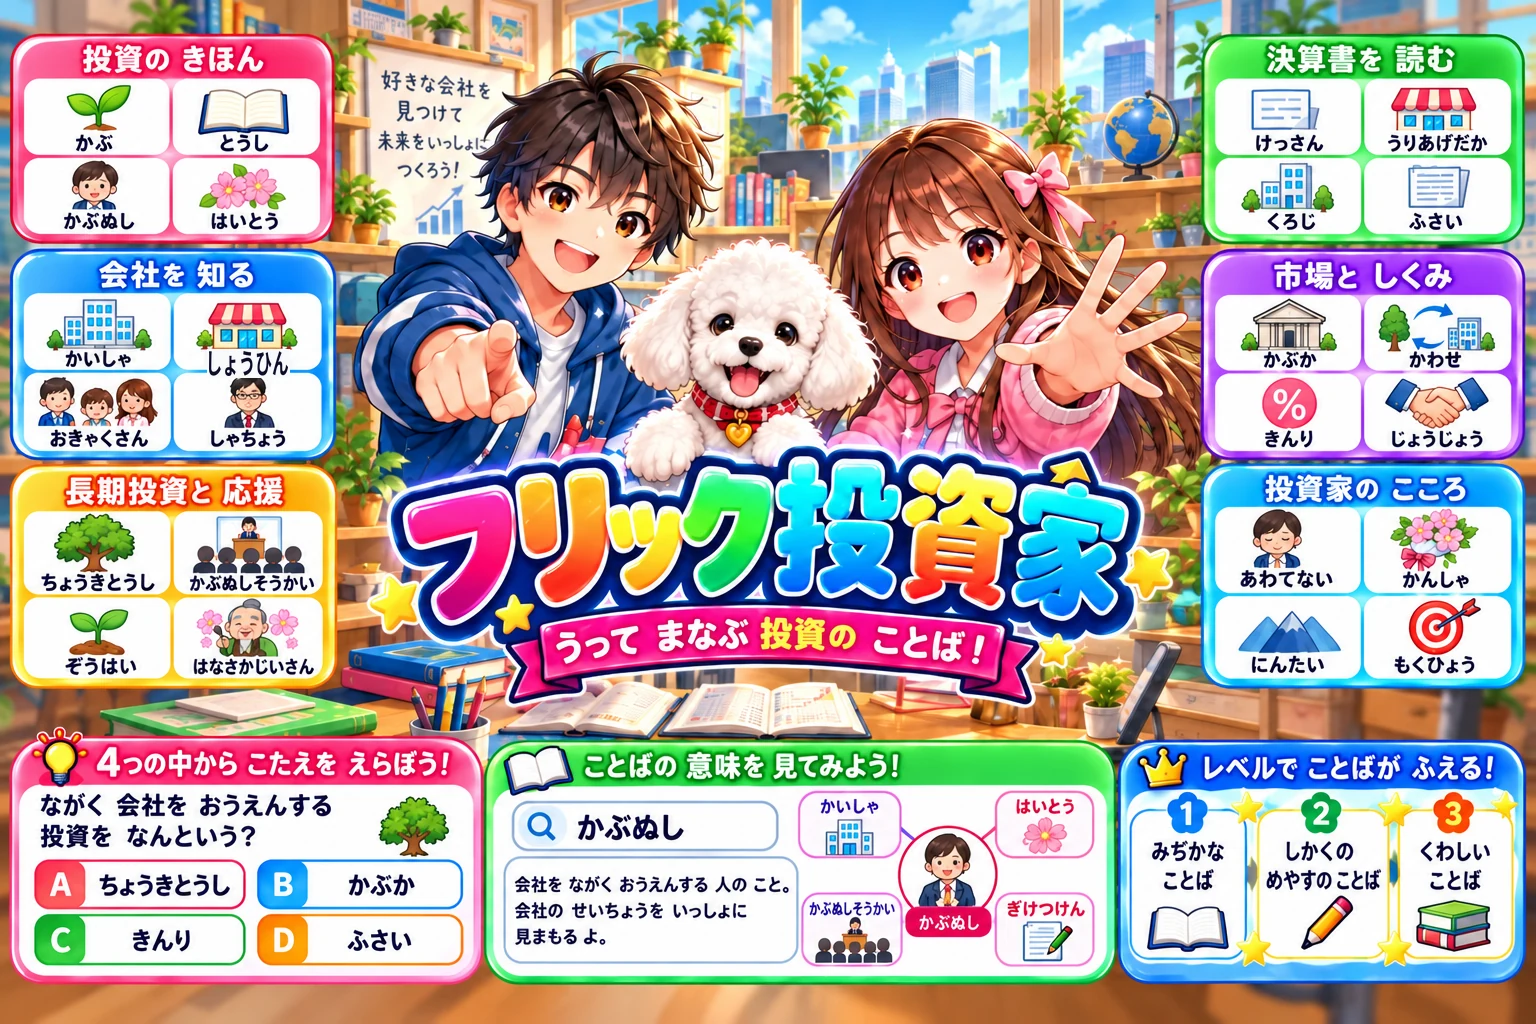
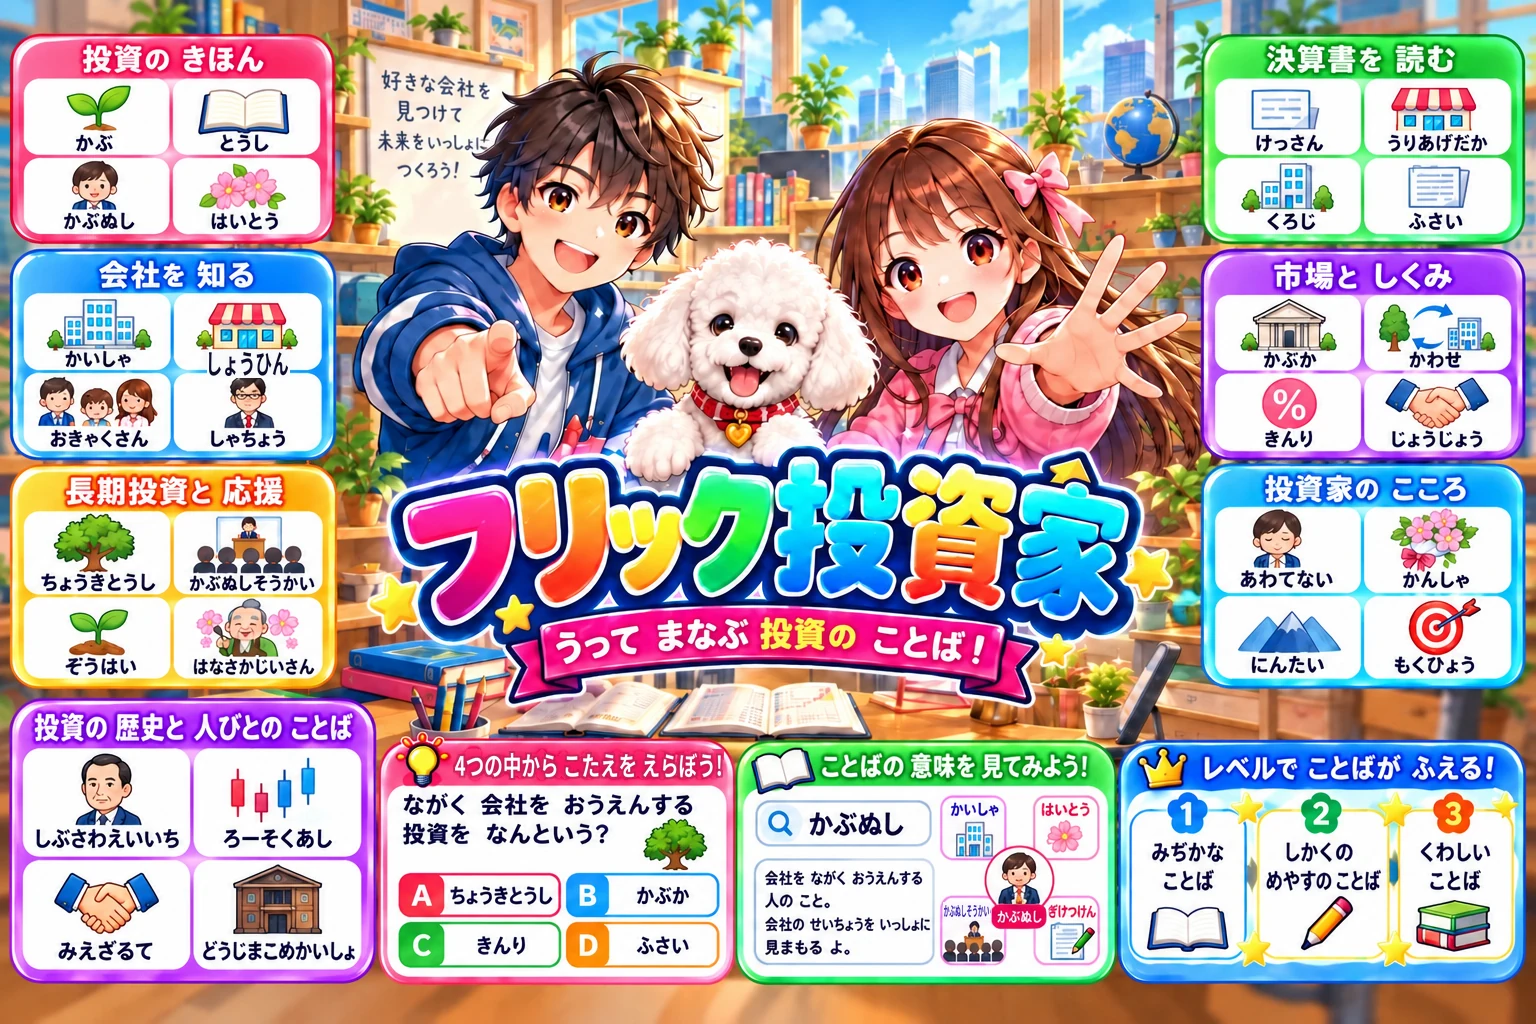
フリック投資家の トップの 絵を 7つの 旅の 札に 差しかえる(4回目の 絵。字の まちがい 3か所を 絵の 中で 直した)
Claude-Session: https://claude.ai/code/session_015JDraoHnMP7RXEF2jiJkTc

diff --git a/toshika/index.html b/toshika/index.html
@@ -423,11 +423,11 @@ ruby.nm rt{font-size:10px;font-weight:500;color:var(--muted);letter-spacing:.02e
          読みあげソフトには かくして、下の <h1> が 名前を言う -->
     <div class="logo">
       <img class="logo-mark" src="logo-mark2.webp?v=1" alt="" width="144" height="144" aria-hidden="true">
-      <img class="logo-word" src="logo-word.webp?v=1" alt="" width="900" height="211" aria-hidden="true">
+      <img class="logo-word" src="logo-word.webp?v=2" alt="" width="900" height="211" aria-hidden="true">
       <button class="prof-btn" id="prof-btn" aria-label="マイページ"><span class="nm"></span><span class="tile sm sk-card" id="prof-tile">?</span></button>
     </div>
     <h1 class="sr-only">フリック投資家</h1>
-    <img class="hero" src="hero.webp?v=1" alt="フリック投資家。本と 植物の ならぶ 明るい 部屋で 男の子と 女の子と 白い 犬が 笑っている 絵。まわりに 6つの 旅の ことばの 札と 4択クイズ・図鑑・レベルの 見本が ならんでいる" width="1536" height="1024">
+    <img class="hero" src="hero.webp?v=2" alt="フリック投資家。本と 植物の ならぶ 明るい 部屋で 男の子と 女の子と 白い 犬が 笑っている 絵。まわりに 7つの 旅の ことばの 札と 4択クイズ・図鑑・レベルの 見本が ならんでいる" width="1536" height="1024">
     <p class="lead" id="lead">世界と日本の名所・地名・首都を、ひらがなでどれだけ速く打てるか。10問のトータルタイムで勝負しながら、旅に出よう。</p>
     <div class="modes" id="modes"></div>
     <div id="kabu-panel"></div><!-- 株式フリック旅行だけ: 集めた会社・称号(kabu/kabu.js) -->

diff --git a/tools/toshika/fix_text.py b/tools/toshika/fix_text.py
@@ -1,8 +1,13 @@
 #!/usr/bin/env python3
 """フリック投資家: けいくんの ChatGPT の 絵(2026-10-02)の 字の まちがいを 絵の 中で 直す(税理士・アドラーの fix_text.py と 同じ やりかた)
     python3 tools/toshika/fix_text.py トップの絵.png 四角い絵.png 直したトップ.png 直した四角.png
-  ① トップの 絵(1536×1024)の「会社を 知る」の 札「しょろひん」→「しょうひん」(Noto Sans CJK JP Bold で 書きなおす)
-  ② 四角い 絵(1254×1254)の 図鑑の「ぎけつけん」の け の 上に ついた 小さな しるし(げ に 見える)を 地の 色で 消す
+  トップの 絵(4回目。7つの 旅の 札が そろった もの。1536×1024):
+  ① 「会社を 知る」の 札「しょろひん」→「しょうひん」
+  ② 4択クイズの 見出し「4つの中から こえらぼう!」(字が ぬけて くずれていた)→「4つの中から こたえを えらぼう!」(白い 字を 書きなおす)
+  ③ 図鑑の 小さな 札「かぶぬしし?」(切れていた)→「かぶぬしそうかい」(横を ちぢめて 入れる)
+  四角い 絵(1254×1254):
+  ④ 図鑑の「ぎけつけん」の け の 上に ついた 小さな しるし(げ に 見える)を 地の 色で 消す
+  いずれも Noto Sans CJK JP Bold で 書きなおす
 ⚠ 位置は この 絵の ための 数字。絵を 差しかえたら 使えない(まず 字を 切り出して 読む)
 ⚠ 書体は apt-get install fonts-noto-cjk"""
 import sys
@@ -11,27 +16,64 @@ from PIL import Image, ImageDraw, ImageFont
 hero, sq, out_h, out_s = sys.argv[1:5]
 FONT = "/usr/share/fonts/opentype/noto/NotoSansCJK-Bold.ttc"; S = 8
 
-# ① しょろひん → しょうひん
+
+def glyphs(txt, h, maxw=None):
+    """txt を 高さ h の アルファ(0〜1)に する。maxw を こえたら 横だけ ちぢめる"""
+    F = ImageFont.truetype(FONT, 40 * S, index=0)            # index 0 = JP
+    tmp = Image.new("L", (40 * S * (len(txt) + 2), 40 * S * 2), 0); ImageDraw.Draw(tmp).text((20 * S, 20 * S), txt, font=F, fill=255)
+    g = tmp.crop(tmp.getbbox()); w = round(g.width * h / g.height)
+    if maxw and w > maxw: w = maxw
+    return np.array(g.resize((w, h), Image.LANCZOS)).astype(float)[..., None] / 255
+
+
 a = np.array(Image.open(hero).convert("RGB")).astype(float); assert a.shape[:2] == (1024, 1536)
-X0, Y0, X1, Y1 = 185, 350, 315, 376                       # 札の 字の あたり(上の お店の 絵に かからない ように)
-r = a[Y0:Y1, X0:X1]; m = r.sum(axis=2) < 300               # こい 紺の 字
+
+# ① しょろひん → しょうひん(こい 紺の 字・白い 札)
+X0, Y0, X1, Y1 = 185, 350, 315, 376
+r = a[Y0:Y1, X0:X1]; m = r.sum(axis=2) < 300
 ys, xs = np.nonzero(m); x0, y0, x1, y1 = X0 + xs.min(), Y0 + ys.min(), X0 + xs.max(), Y0 + ys.max()
 col = np.median(r[m], axis=0)
-bg = np.median(np.concatenate([a[y1 + 3, x0:x1], a[y0:y1, x0 - 4], a[y0:y1, x1 + 4]]), axis=0)  # 下と 左右の 白から
-a[y0 - 2:y1 + 3, x0 - 2:x1 + 3] = bg                       # もとの 字を 地の 色で 消す
-h = y1 - y0 + 1; F = ImageFont.truetype(FONT, 40 * S, index=0)   # index 0 = JP
-tmp = Image.new("L", (40 * S * 8, 40 * S * 2), 0); ImageDraw.Draw(tmp).text((20 * S, 20 * S), "しょうひん", font=F, fill=255)
-g = tmp.crop(tmp.getbbox()); w = min(round(g.width * h / g.height), x1 - x0 + 1)
-g = g.resize((w, h), Image.LANCZOS); gx = (x0 + x1) // 2 - w // 2
-al = np.array(g).astype(float)[..., None] / 255
+bg = np.median(np.concatenate([a[y1 + 3, x0:x1], a[y0:y1, x0 - 4], a[y0:y1, x1 + 4]]), axis=0)
+a[y0 - 2:y1 + 3, x0 - 2:x1 + 3] = bg
+al = glyphs("しょうひん", y1 - y0 + 1, x1 - x0 + 1); h, w = al.shape[:2]; gx = (x0 + x1) // 2 - w // 2
 a[y0:y0 + h, gx:gx + w] = a[y0:y0 + h, gx:gx + w] * (1 - al) + col * al
+
+# ② クイズの 見出し(ピンクの 帯に 白い 字)。字の ところを 行ごとの ピンクで うめてから 書きなおす
+X0, Y0, X1, Y1 = 452, 749, 724, 781
+reg = a[Y0:Y1, X0:X1]
+txt = reg.min(axis=2) > 170                                          # もとの 白い 字
+grow = txt.copy()                                                    # 字の まわりの かげも ふくめて 3px 太らせる
+for _ in range(3):
+    g2 = grow.copy(); g2[1:] |= grow[:-1]; g2[:-1] |= grow[1:]; g2[:, 1:] |= grow[:, :-1]; g2[:, :-1] |= grow[:, 1:]; grow = g2
+for i in range(reg.shape[0]):                                        # 字の ところだけ、その 行の まわりの ピンクで うめる(帯の グラデーションは のこす)
+    row = reg[i]; keep = row[~grow[i]]
+    if len(keep): row[grow[i]] = np.median(keep, axis=0)
+from PIL import ImageFilter                                           # うめた ところだけ ぼかして、もとの 字の あとを 目立たなく する
+soft = np.array(Image.fromarray(reg.clip(0, 255).astype(np.uint8)).filter(ImageFilter.GaussianBlur(4))).astype(float)
+reg[grow] = soft[grow]
+a[Y0:Y1, X0:X1] = reg
+shadow = np.median(reg[~grow], axis=0) * 0.7                         # 字の まわりの こい ピンクの かげ
+al = glyphs("4つの中から こたえを えらぼう!", 25, X1 - X0 - 6); h, w = al.shape[:2]
+gx, gy = X0 + 3, Y0 + 4
+sh = np.zeros((h + 4, w + 4, 1))
+for dx in range(5):
+    for dy in range(5): sh[dy:dy + h, dx:dx + w] = np.maximum(sh[dy:dy + h, dx:dx + w], al)
+reg = a[gy - 2:gy + h + 2, gx - 2:gx + w + 2]; a[gy - 2:gy + h + 2, gx - 2:gx + w + 2] = reg * (1 - sh * .6) + shadow * sh * .6
+a[gy:gy + h, gx:gx + w] = a[gy:gy + h, gx:gx + w] * (1 - al) + 255 * al
+
+# ③ 図鑑の「かぶぬしし?」→「かぶぬしそうかい」(白い 札に 紺むらさきの 字)
+X0, Y0, X1, Y1 = 943, 902, 990, 920
+r = a[Y0:Y1, X0:X1]; m = (r[..., 2] - r[..., 0] > 60) & (r.sum(axis=2) < 450)
+col = np.median(r[m], axis=0)
+a[Y0:Y1, X0:X1] = np.median(a[Y0:Y1, X0:X1][~m], axis=0)
+al = glyphs("かぶぬしそうかい", 12, X1 - X0 - 2); h, w = al.shape[:2]; gx = (X0 + X1) // 2 - w // 2; gy = Y0 + 3
+a[gy:gy + h, gx:gx + w] = a[gy:gy + h, gx:gx + w] * (1 - al) + col * al
 Image.fromarray(a.clip(0, 255).astype(np.uint8)).save(out_h)
 
-# ② ぎげつけん の しるしを 消す
+# ④ 四角い 絵: ぎげつけん の しるしを 消す
 b = np.array(Image.open(sq).convert("RGB")).astype(float); assert b.shape[:2] == (1254, 1254)
 X0, Y0, X1, Y1 = 803, 1152, 823, 1161
 reg = b[Y0:Y1, X0:X1]; mk = reg.sum(axis=2) < 600
-bgc = np.median(b[Y0 - 3:Y0, X0:X1].reshape(-1, 3), axis=0)
-reg[mk] = bgc; b[Y0:Y1, X0:X1] = reg
+reg[mk] = np.median(b[Y0 - 3:Y0, X0:X1].reshape(-1, 3), axis=0); b[Y0:Y1, X0:X1] = reg
 Image.fromarray(b.clip(0, 255).astype(np.uint8)).save(out_s)
 print("直した:", out_h, out_s)

diff --git a/tools/build_games.py b/tools/build_games.py
@@ -198,11 +198,12 @@ GAMES = {
     #   ことばは tools/toshika/terms-<旅>.json → toshika/terms.js(tools/toshika/terms_js.py)。しくみは toshika/toshika.js(TOSHIKA。アドラー心理学を 写した)。
     #   ⚠⚠ 投資・銘柄の すすめ・売り買いの 時期・投資相談の 答え・株価や 金額の 数字・実在の 会社・こわい ことば・ギャンブルの かおりは 出さない(決まりは tools/toshika/PROMPT.md)。
     #   絵(2026-10-02): けいくんの ChatGPT の 絵(3回目)。1回目は 札の 半分が ゲームに 無い ことば・金貨・お札・¥の 袋・上がる 矢印で 入れなかった。
-    #   3回目の「しょろひん」→「しょうひん」(トップ)と「ぎげつけん」の しるし(四角)を 絵の 中で 直した(tools/toshika/fix_text.py)。
+    #   トップは 4回目(けいくん「歴史の 札を 足したい」で 7つの 旅の 札に)。「しょろひん」・くずれた クイズの 見出し・切れた「かぶぬしそうかい」と、
+    #   四角の「ぎげつけん」の しるしを 絵の 中で 直した(tools/toshika/fix_text.py)。
     #   アイコンは 四角い 絵を 切らずに そのまま(tools/icon_from_square.py toshika)。
     #   題名は けいくんが ChatGPT で 切りぬいた 透明 PNG(tools/toshika/art/title-src.png)→ python3 tools/title_from_art.py toshika(2026-10-02)
     "toshika": dict(name="フリック投資家", modes="TOSHIKA", kinds=set(), color="#2f9e44", hero=True, logo=True,
-                    art=dict(word=(900, 211), hero=(1536, 1024), alt="フリック投資家。本と 植物の ならぶ 明るい 部屋で 男の子と 女の子と 白い 犬が 笑っている 絵。まわりに 6つの 旅の ことばの 札と 4択クイズ・図鑑・レベルの 見本が ならんでいる", iconv=1, wordv=1),
+                    art=dict(word=(900, 211), hero=(1536, 1024), alt="フリック投資家。本と 植物の ならぶ 明るい 部屋で 男の子と 女の子と 白い 犬が 笑っている 絵。まわりに 7つの 旅の ことばの 札と 4択クイズ・図鑑・レベルの 見本が ならんでいる", iconv=1, wordv=2),
                     lead="投資の きほん・会社を 知る・長期投資と 応援・決算書を 読む・市場と しくみ・投資家の こころ・投資の 歴史と 人びとの ことばを、ひらがなで フリック入力。打つと その ことばの 意味と、学ぶ 分野・しくみ図の どこに あるのかが 出るよ。くらしや ニュースで 聞く お金と 会社の ことばから はじめて、証券外務員・FP・証券アナリストの 範囲の めやすの ことばまで。めざすのは、好きな 会社を 見つけて 株主として 長く 応援する 投資家。4択クイズで 意味を たしかめる 練習も できるよ。",
                     how="表示された ひらがなを、そのまま打ち写してね。1回は かならず 10問。どのステージも いつも同じ10問なので、タイムをくらべられるよ。これは ことばを おぼえる ゲームだよ。投資を すすめる ものでは ありません。どの 会社を 買えば よいかや、売り時・買い時は 書いていないよ。株価や 金額は 毎日・毎年 変わるので のせていないよ。お金の ことは おうちの 人や 専門の 人と 相談してね。",
                     rule="ルール：予測変換は使わずに、自分の指で打ち切ろう。あそぶほど、会社と 社会の しくみ、長く 応援する 投資家の 考えかたが つながって 見えてくるよ。証券会社・取引所・日本証券業協会・日本証券アナリスト協会とは 関係ありません。"),

diff --git a/CLAUDE.md b/CLAUDE.md
@@ -510,10 +510,12 @@
   - 2回目の 四角い 絵は「がいしゃ」「ばいどう」「くろじ の ¥の 袋」を 直して もらった(3回目)
   - 3回目は 札を 切り出して 読みで 確かめた。のこった 2か所は **絵の 中で 直した**(`tools/toshika/fix_text.py`。Noto Sans CJK JP Bold):
     トップの「しょろひん」→「しょうひん」/ 四角の 図鑑の「ぎけつけん」の け の 上の 小さな しるし(げ に 見えた)を 消した
-  - ⚠ トップの 絵の 札は **6つの 旅(24こ)だけ**で「投資の 歴史と 人びと」が 無い(四角い 絵には 7つ ある)。ホワイトボードの 小さな 棒グラフと 矢印は のこっている(小さいので そのまま)
+  - 3回目の トップの 絵は 札が 6つの 旅(24こ)だけで「投資の 歴史と 人びと」が 無かった → 4回目で 7つに(下)
   - 題名は けいくんが ChatGPT で 切りぬいた 透明 PNG(`tools/toshika/art/title-src.png`。2172×724)→ `python3 tools/title_from_art.py toshika` → `toshika/logo-word.webp`(900×211)。7字「フリック投資家」を 1字ずつ 読んで 確かめた
     (`build_games.py` に 足した「絵は あるが 題名の 絵は 無い」ときの 道(`art and not logo`)は のこしてある)
-  - けいくん「歴史の 札を 足したい」→ ChatGPT に 横長の 絵を 作りなおして もらう ところ(2026-10-02)。届いたら 札を 読んで `toshika/hero.webp` を 差しかえ、`wordv` を +1
+  - けいくん「歴史の 札を 足したい」→ ChatGPT に 横長の 絵を 作りなおして もらった(4回目。**7つの 旅の 札 28こ**。ホワイトボードの 矢印の グラフも 消えた)。
+    札は 27こ 正しかった。のこりを 絵の 中で 直した(`fix_text.py`): また 出た「しょろひん」→「しょうひん」/ クイズの 見出し「4つの中から こえらぼう!」(字が ぬけて くずれていた)→「こたえを えらぼう!」(白い 字を 書きなおし、もとの 字の ところだけ ピンクで うめて ぼかした)/
+    図鑑の 小さな 札「かぶぬしし?」(切れていた)→「かぶぬしそうかい」。`wordv` を 2 に(トップの 絵の ?v= も これ)
   - 仮の アイコンの 台本 `placeholder_icon.py` は もう 使わない(記録に のこす)
 - かずともの `FLICK_MODES` / `FLICK_LINK_TARGETS`(speed-king #301)・販売ページ `HOME_GAMES`(夢のしごと の 章、アドラーの となり)・規約の 一覧 `FLICK_SERIES_GAMES` に 足した
 - 確かめかた: `node tools/play-all.mjs toshika/`(4とおりの 打ちかたで 全98ステージ)/ `node tools/click-all.mjs toshika/`(W=320 も)。ふりがなを 作るには `pip install sudachipy sudachidict_core`
